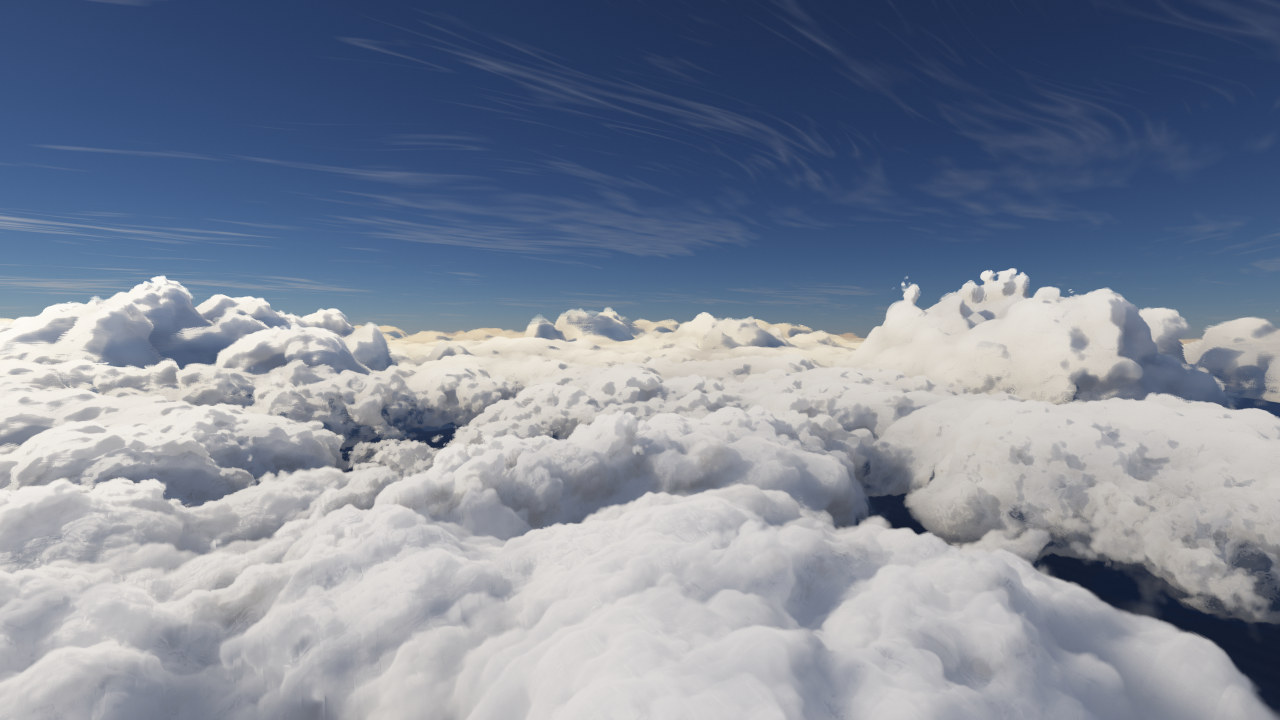
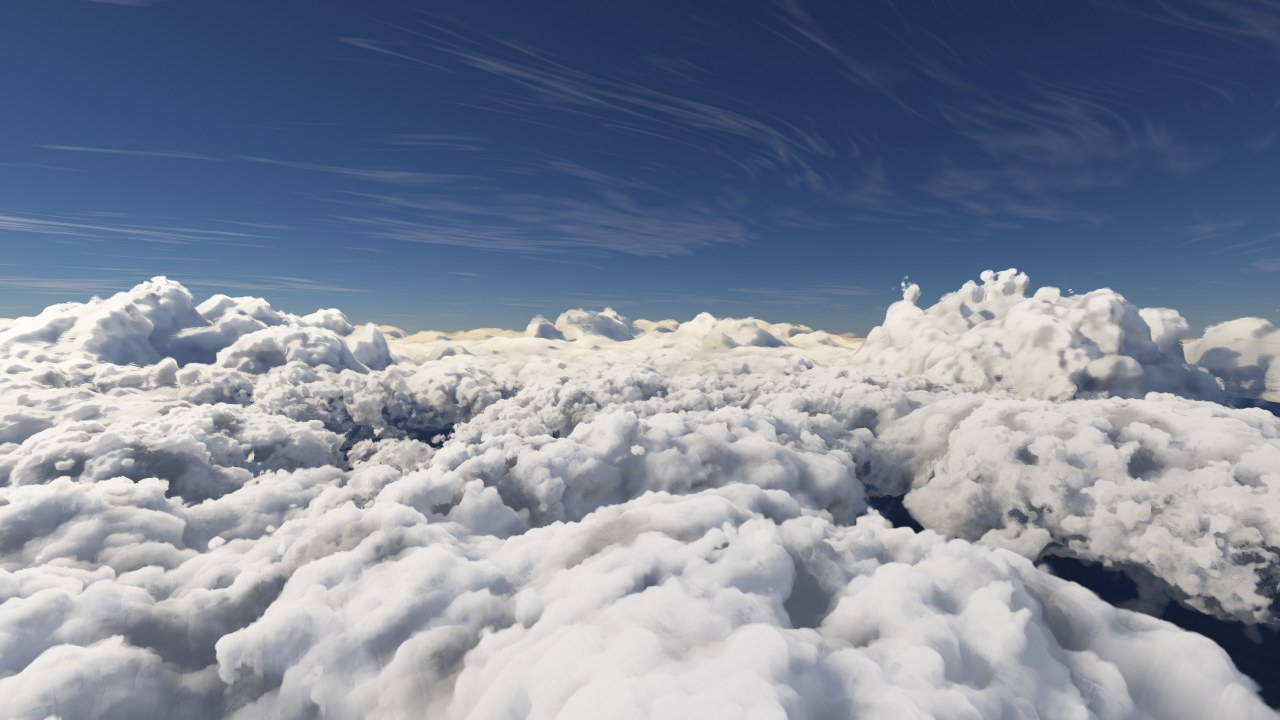
Preview of #33 at d58615ea3709463a9d0cc8b72e4f330f93eac7cf

diff --git a/pr/33/index.html b/pr/33/index.html
@@ -795,7 +795,7 @@ const float DETAIL = 7.0;           // tiles of the fine noise per tile (whole n
 const float SIGMA = 90.0;           // extinction inside a dense cloud, per km
 const float LUMPS = 1.3;            // how far the noise of the tile moves the surface, in units of the field
 const float RELIEF = 1.0;           // the same for the fine noise
-const float EDGE = 0.06;            // depth under the surface at which an old, soft cloud is dense
+const float EDGE = 0.03;            // depth under the surface at which an old, soft cloud is dense
 const int CLOUD_STEPS = 160;
 const float PENUMBRA = 0.06;        // how far light strays sideways in a cloud, km: shadows on it are soft
 
@@ -890,8 +890,9 @@ float cloudShape(vec3 p, float lod, out float y, out vec4 q, out float body, out
 // The fine noise at q (a place in the noise of the tile) on a cloud of
 // roughness rough, in units of the field: billows of 300 m down to 20 m,
 // read a mip level sharper than the pixel (the mean over the frames
-// averages what that leaves). Each size stands out about a third of its
-// width, so smaller billows sit on larger ones: a cauliflower, not a foam.
+// averages what that leaves). The 300 m billows stand out about a third of
+// their width, the smaller ones up to a half, so that smaller billows sit
+// on larger ones: a cauliflower. Equal weights made a foam.
 // Nothing smaller: light spreads over tens of metres inside a cloud, and
 // near the eye a cloud is a fog.
 float cloudDetail(vec3 q, float lod, float rough) {
@@ -899,20 +900,23 @@ float cloudDetail(vec3 q, float lod, float rough) {
   // domes with creases between them, as the billows of a cloud.
   vec4 d = textureLod(uNoise, q * DETAIL, lod + 1.7);
   d.gba *= 2.0 - d.gba;
-  return RELIEF * rough * (0.15 * (d.r - 0.571) + 0.4 * (d.g - 0.712) + 0.25 * (d.b - 0.715) + 0.12 * (d.a - 0.715));
+  return RELIEF * rough * (0.15 * (d.r - 0.571) + 0.4 * (d.g - 0.712) + 0.3 * (d.b - 0.715) + 0.2 * (d.a - 0.715));
 }
 
 // The field at p; fine: with the fine noise, which also comes out by
 // itself (bump: positive on a billow, negative in a crease). lump: see
 // cloudShape. A thin cloud is rougher: its edge frays. Also gives the
 // depth at which the cloud there is dense (edge, km).
-float cloudField(vec3 p, float lod, bool fine, out float y, out float bump, out float body, out float edge, out float lump) {
-  vec4 q;
+float cloudField(vec3 p, float lod, bool fine, out float y, out float bump, out float body, out float edge, out float lump,
+                 out vec4 q, out float fb) {
   float base;
   float f = cloudShape(p, lod, y, q, body, lump, base);
   float c = min(f, base);
-  // Hard, growing turrets have a crisp edge; older cloud a deeper fringe.
-  edge = mix(EDGE, 0.025, smoothstep(0.45, 1.3, q.w));
+  fb = f - base;
+  // Hard, growing turrets have a crisp edge (10 m); older cloud a deeper
+  // fringe. Billows smaller than the edge melt into it: a deeper one made
+  // every top look like cotton wool.
+  edge = mix(EDGE, 0.01, smoothstep(0.45, 1.3, q.w));
   bump = 0.0;
   if (fine && q.w > 0.0 && c > -0.25 * RELIEF) {
     float d = cloudDetail(q.xyz, lod, q.w * mix(1.5, 1.0, smoothstep(0.1, 0.6, body)));
@@ -924,8 +928,9 @@ float cloudField(vec3 p, float lod, bool fine, out float y, out float bump, out 
 }
 
 float cloudField(vec3 p, float lod, bool fine, out float y, out float bump, out float body, out float edge) {
-  float lump;
-  return cloudField(p, lod, fine, y, bump, body, edge, lump);
+  float lump, fb;
+  vec4 q;
+  return cloudField(p, lod, fine, y, bump, body, edge, lump, q, fb);
 }
 
 // Extinction (per km) for a value of the field at height y, in a cloud of
@@ -950,18 +955,20 @@ float cloudDensity(vec3 p, float lod, bool fine) {
 // 26 steps' worth of distance; the steps grow. The first two see the fine
 // noise, smoothed over some tens of metres (light spreads that far in a
 // cloud), and their depth comes apart (crisp): bumps shade the creases
-// beside them softly. The last three are moved aside by off, each a third
-// of a turn from the one before: light strays inside a cloud, and over the
-// frames the shadows of other clouds soften. Also gives the slope towards
-// the light (per km) of the field without the fine noise, from its value at
-// p (fc) to the third step's.
+// beside them softly. The third sees it smoothed over its own level (40 m
+// or more), as fc has it at p: the slope towards the light (per km) from fc
+// to the third step's field follows the billows of 100 to 300 m, so that
+// each turns a lit side to the sun, and not their small creases. The last
+// three are moved aside by off, each a third of a turn from the one before:
+// light strays inside a cloud, and over the frames the shadows of other
+// clouds soften.
 float lightDepth(vec3 p, vec3 dir, float ds, float lod, float fc, vec3 off, out float crisp, out float slope) {
   float tau = 0.0, s = 0.0;
   crisp = 0.0;
   slope = 0.0;
   for (int i = 0; i < 6; i++) {
     float y, bump, body, edge, l = i < 2 ? max(lod, -1.0) : max(lod, 0.0) + 0.5 * float(i), sm = s + 0.5 * ds;
-    float fl = cloudField(p + dir * sm + (i < 3 ? vec3(0.0) : off), l, i < 2, y, bump, body, edge);
+    float fl = cloudField(p + dir * sm + (i < 3 ? vec3(0.0) : off), l, i < 3, y, bump, body, edge);
     if (i > 2) off = -0.5 * off + 0.866 * cross(dir, off);   // the next one a third of a turn on
     float dt = fl > 0.0 ? cloudExtinction(fl, l, y, body, edge) * ds : 0.0;
     if (i < 2) crisp += dt; else tau += dt;
@@ -1016,8 +1023,17 @@ void clouds(vec3 o, vec3 d, float ta, float tb, float jitter,
     vec3 pg = o + d * sea.x;
     plan = min(sea.x + raySphere(pg, reflect(d, normalize(pg)), RG + CT).y, 600.0);
   }
+  // Up to knee the steps are DS_MIN; beyond it, rel * t. On a long path,
+  // rel used to grow for the whole ray, and clouds 2 to 5 km off were
+  // marched in steps of 100 to 200 m: their edges came out as thin dark
+  // squiggles and a hatch. Now the steps grow from DS_REL * t by 1 + t / L,
+  // where L is set so that this too ends within the budget (the sum of
+  // dt / (DS_REL t (1 + t / L)) from s0 to plan), and never past rel * t:
+  // fine near the eye, as before far off.
   float knee = DS_MIN / DS_REL;
   float near = max(min(plan, knee) - ta, 0.0) / DS_MIN;
+  float s0 = max(ta, knee), E = exp(DS_REL * max(BUDGET - near, 0.3 * BUDGET));
+  float L = plan > E * s0 ? s0 * plan * (E - 1.0) / (plan - E * s0) : 1e9;
   float rel = DS_REL * max(1.0, log(max(plan, knee) / max(ta, knee)) / DS_REL / max(BUDGET - near, 0.3 * BUDGET));
   // Light scattered once keeps the forward peak of the droplets; light
   // scattered many times goes deeper and forgets its direction. These five
@@ -1026,7 +1042,7 @@ void clouds(vec3 o, vec3 d, float ta, float tb, float jitter,
   float mu = dot(d, uLight);
   float p0 = 0.8 * hg(mu, 0.8) + 0.2 * hg(mu, -0.25);
   float p1 = 0.6 * hg(mu, 0.4), p2 = 1.4 * hg(mu, 0.1), p3 = 1.6 / (4.0 * PI), p4 = 0.3 / (4.0 * PI);
-  float ds = max(DS_MIN, rel * ta);
+  float ds = max(DS_MIN, ta * min(DS_REL * (1.0 + ta / L), rel));
   float t = ta + jitter * COARSE * ds, wsum = 0.0, tsum = 0.0;
   // The field tells how far the next surface is, roughly: stride through
   // clear air, and slow down to a pixel's worth near a cloud, so that its
@@ -1039,11 +1055,12 @@ void clouds(vec3 o, vec3 d, float ta, float tb, float jitter,
   bool lit = false;
   for (int i = 0; i < CLOUD_STEPS; i++) {
     if (t >= tb || Tc < 0.01) break;
-    ds = max(DS_MIN, rel * t);
+    ds = max(DS_MIN, t * min(DS_REL * (1.0 + t / L), rel));
     float lod = log2(max(0.8 * pix * t, 0.2 * ds) / TEXEL_KM);
     vec3 p = o + d * t;
-    float y, bump, body, edge, lump;
-    float f = cloudField(p, lod, true, y, bump, body, edge, lump);
+    float y, bump, body, edge, lump, fb;
+    vec4 q;
+    float f = cloudField(p, lod, true, y, bump, body, edge, lump, q, fb);
     if (f > 0.0 && came > 1.5 * ds) {
       // Strode into a cloud: go back and walk, though not to before the
       // start (with the eye in a cloud, that would put the cloud behind
@@ -1077,15 +1094,40 @@ void clouds(vec3 o, vec3 d, float ta, float tb, float jitter,
         vec3 side = normalize(cross(uLight, abs(uLight.y) < 0.9 ? vec3(0.0, 1.0, 0.0) : vec3(1.0, 0.0, 0.0)));
         float ang = 2.0 * PI * ign(gl_FragCoord.yx + 5.588238 * uPass + 11.0);
         vec3 off = PENUMBRA * sqrt(hash(gl_FragCoord.xy + 3.71 * uPass + 19.1)) * (cos(ang) * side + sin(ang) * cross(uLight, side));
-        float tau = lightDepth(ps, uLight, max(clamp(0.00625 * t, 0.015, 0.05), 0.6 * ds), lod, fs - bump, off, crisp, slope);
+        // The billows of 100 to 300 m shade one another: the field with the
+        // fine noise smoothed over 40 m or more (mid: what it adds at ps)
+        // gives the slope towards the light (facing), and their hollows
+        // get less light (hollow). Smaller creases stay unshaded: they made
+        // a foam of dark lines.
+        vec3 dp = ps - p;
+        float lm = max(lod, -0.5) + 1.0;
+        vec3 qs = q.xyz + vec3(dp.x, length(ps) - length(p), dp.z) / BASE_KM;
+        // (Well under a base, mid is a shred's at most: not worth a read.)
+        float mid = 0.0;
+        if (q.w > 0.0 && fb < 0.3) {
+          float dm = cloudDetail(qs, lm, q.w * mix(1.5, 1.0, smoothstep(0.1, 0.6, body)));
+          mid = min(fb + dm, 0.8 * max(dm - 0.12, 0.0)) - min(fb, 0.0);
+        }
+        float fm = fs - bump + mid;
+        float tau = lightDepth(ps, uLight, max(clamp(0.00625 * t, 0.015, 0.05), 0.6 * ds), lod, fm, off, crisp, slope);
         float facing = clamp((0.3 - slope / sqrt(slope * slope + 2.0)) / 1.3, 0.0, 1.0);
-        // The sky lights what faces up, the higher the better. This and
-        // facing follow the field without the fine noise: light spreads
-        // over tens of metres in a cloud, and the creases of the fine
-        // noise came out as thin dark lines.
+        // The sky lights what faces up, the higher the better. This
+        // follows the field without the fine noise: light spreads over
+        // tens of metres in a cloud, and the creases of the fine noise
+        // came out as thin dark lines.
         float yu, bu, cu, eu;
         float reach = max(clamp(0.0125 * t, 0.05, 0.1), 2.0 * exp2(lod) * TEXEL_KM);
         float rise = (cloudField(ps + normalize(ps) * reach, lod, false, yu, bu, cu, eu) - (fs - bump)) / reach;
+        float hollow = clamp(1.0 + 6.0 * mid, 0.55, 1.15);
+        // From below, a deck shows its cells: thick middles darker, thin
+        // rims lighter, some 600 m across (Worley cells of the noise, read
+        // at 3.5 times the tile's frequency: a texel of 18 m, whose facets
+        // do not show; the tile's own 62 m texels did, as blocks).
+        if (rise > 0.0) {
+          float cell = textureLod(uNoise, qs * 3.5, max(lod + 1.8, 0.0)).g;
+          cell *= 2.0 - cell;
+          hollow *= mix(1.0, clamp(exp(-3.0 * (cell - 0.712)), 0.6, 1.4), min(rise, 1.0));
+        }
         float open = (0.6 - 0.4 * rise / sqrt(rise * rise + 2.0))
                    * mix(0.6, 1.0, clamp((length(p) - RG - CB) / 1.5, 0.0, 1.0));
         // Light scattered a few times casts the crisp shadows of the
@@ -1103,10 +1145,10 @@ void clouds(vec3 o, vec3 d, float ta, float tb, float jitter,
         // it: white light, of the sun and of the sky, as that cloud sends.
         float bounce = (1.0 - facing) * clamp(dot(ps, uLight) / length(ps), 0.0, 1.0);
         one = p0 * exp(-tau);
-        many = billow * white * (0.66 * mix(0.15, 1.0, facing)
+        many = hollow * billow * white * (0.66 * mix(0.15, 1.0, facing)
                                  * (p1 * exp(-0.4 * tau) + p2 * exp(-0.15 * soft) + p3 * exp(-0.05 * soft))
                                  + p4 * exp(-0.012 * soft) + 0.02 * bounce);
-        amb = billow * (open * mix(1.0, white, 0.5) + 0.15 * bounce);
+        amb = hollow * billow * (open * mix(1.0, white, 0.5) + 0.15 * bounce);
       }
       sOne += Tc * a * one;
       sMany += Tc * a * many;

diff --git a/pr/33/docs/design.md b/pr/33/docs/design.md
@@ -267,10 +267,11 @@ tile is read through the GPU's filter, and its facets would show on a
 surface as smooth as a base). The cloud is the lesser of the two fields.
 
 `cloudDetail` gives the fine noise: `DETAIL` = 7 tiles per tile, billows
-of 300 m down to about 20 m. Each size stands out about a third of its
-width (the octaves' weights fall with their size), so that small billows
-sit on large ones. Nothing finer: light spreads over tens of metres in a
-cloud, and near the eye a cloud is a fog. `cloudField` adds it near the
+of 300 m down to about 20 m. The 300 m billows stand out about a third of
+their width, the smaller ones up to a half, so that small billows sit on
+large ones: a cauliflower (equal weights made a foam). Nothing finer:
+light spreads over tens of metres in a cloud, and near the eye a cloud is
+a fog. `cloudField` adds it near the
 surface only (`min(f, base) > -0.25 * RELIEF`), more strongly on thin
 cloud:
 
@@ -284,10 +285,11 @@ line of them, seen from their own height.
 
 `cloudExtinction` turns the field into extinction: `SIGMA` = 90 per km
 once the field is past the edge, with more water higher up and in thicker
-clouds. The edge (`edge`, from `cloudField`) is 25 m deep on hard,
-growing turrets and `EDGE` = 60 m on older, softer cloud; the extinction
+clouds. The edge (`edge`, from `cloudField`) is 10 m deep on hard,
+growing turrets and `EDGE` = 30 m on older, softer cloud; the extinction
 rises with the square of the depth there, so the outer part is a thin,
-translucent fringe. Where the field is smoothed over a pixel wider than
+translucent fringe. Billows smaller than the edge melt into it: with
+edges of 25 to 60 m every near top looked like cotton wool. Where the field is smoothed over a pixel wider than
 the edge, the smoothing sets the width and the rise is linear.
 
 **The march** (`clouds`) runs from where the ray enters the shell (`ta`) to
@@ -295,11 +297,18 @@ where it leaves it (`tb`, at most 600 km). A ray that goes on to the sea
 leaves it at the cloud base; from under the base, such a ray has no
 clouds.
 
-- The steps grow with the distance: `ds = max(DS_MIN, rel * t)`, with
-  `DS_MIN` = 20 m and `rel` at least `DS_REL` = 0.0045. On a long path
-  `rel` grows so that the march ends within its budget (`COARSE * 80`
-  steps' worth); the near steps stay fine. At most `CLOUD_STEPS` = 160
-  steps, and the march stops when less than 1 % gets through.
+- The steps grow with the distance: `ds = max(DS_MIN, t * min(DS_REL *
+  (1 + t / L), rel))`, with `DS_MIN` = 20 m and `DS_REL` = 0.0045. On a
+  long path the march must end within its budget (`COARSE * 80` steps'
+  worth). `rel` is the one rate for the whole ray that does so; `L` the
+  distance past which steps of `DS_REL * t` grow by `1 + t / L` and do so
+  too (the sum of `dt / ds` from `max(ta, DS_MIN / DS_REL)` to the end has
+  a closed form). The lesser of the two keeps the steps fine near the eye
+  and as before far off. With `rel` alone, clouds 2 to 5 km off were
+  marched in steps of 100 to 200 m on rays that end far away, and their
+  edges came out as thin dark squiggles and a hatch. At most
+  `CLOUD_STEPS` = 160 steps, and the march stops when less than 1 % gets
+  through.
 - The plan must not jump where the end of the ray does: a ray that meets
   the sea is planned as if the sea were a mirror and the ray went on up to
   `CT`. So a cloud in front of the horizon looks the same above and below
@@ -328,11 +337,21 @@ found between the last two samples. For each:
   `PENUMBRA` = 60 m), each a third of a turn from the one before, at an
   angle from interleaved gradient noise: over the frames the shadows
   soften (white noise there leaves a grain in the settled picture). The
-  third step has neither. It gives the slope of the field without the
-  fine noise towards the light, hence `facing`.
+  third step is not moved, and sees the fine noise smoothed over its own
+  level (40 m or more). From the field at the surface with the fine noise
+  smoothed as much (`fm`: `mid` is what that noise adds there) to the
+  third step's, the slope towards the light gives `facing`: the billows
+  of 100 to 300 m each turn a lit side to the sun, and their small creases
+  do not show (unsmoothed, they came out as thin dark lines).
+- `hollow` dims the hollows between those billows (where `mid` is
+  negative) to 55 %, and lifts their tops a little: soft, grey hollows.
+  On a surface that faces down it also shows the cells of a deck: Worley
+  cells of the noise read at 3.5 times the tile's frequency (some 600 m
+  across, and texels of 18 m, whose facets do not show; the tile's own
+  62 m texels showed as blocks), darker in the thick middle of a cell and
+  lighter at its thin rim, by up to 40 %.
 - The rise of the field without the fine noise towards the sky over
-  `reach` gives `open`: how much skylight a place gets. Neither follows
-  the fine noise: its creases would come out as thin dark lines.
+  `reach` gives `open`: how much skylight a place gets.
 - Five phase terms stand for the orders of scattering: `p0` (scattered
   once: two Henyey-Greenstein lobes, dimmed by the whole depth) and `p1` to
   `p4` (scattered many times: wider lobes that go deeper). `white` makes
